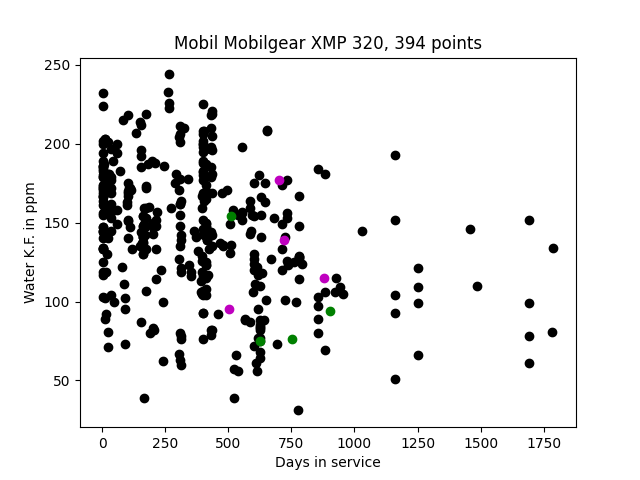
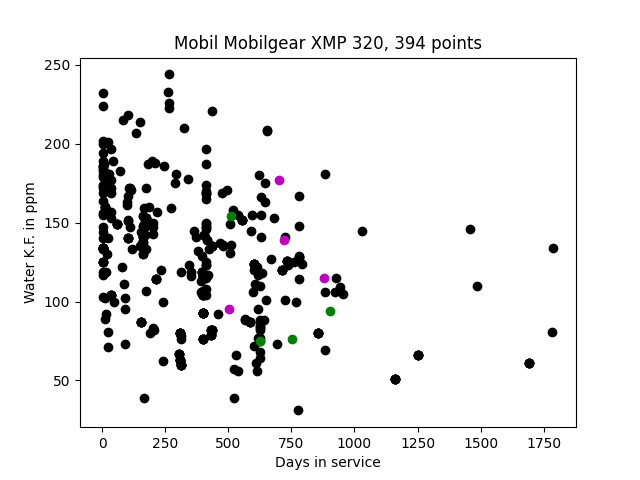
Sep 20, 2022, 5:52 PM

diff --git a/project/dataset.py b/project/dataset.py
@@ -443,20 +443,20 @@ class Dataset:
                                     # add to x1, y1, increase j, if it is the case l but not k 
                                     if not ("Einfülltage" in self.keys):
                                         if (
-                                            len(row["Datum letzter Ölwechsel"]) > 0
-                                            and len(row["Datum Probenentnahme"]) > 0
+                                            len((data[i])["Datum letzter Ölwechsel"]) > 0
+                                            and len((data[i])["Datum Probenentnahme"]) > 0
                                         ):
                                             days_service = self.compute_days_in_service(
                                                 (data[i])["Datum Probenentnahme"],
                                                 (data[i])["Datum letzter Ölwechsel"],
                                             )
-                                            if days_service > 0 and len(row[param]) > 0:
+                                            if days_service > 0 and len((data[i])[param]) > 0:
                                                 x1.append(days_service)
-                                                y1.append(float(row[param]))
+                                                y1.append(float((data[i])[param]))
                                                 j += 1
                                     elif len(row["Einfülltage"]) > 0:
-                                        x1.append(int(row["Einfülltage"]))
-                                        y1.append(float(row[param]))
+                                        x1.append(int((data[i])["Einfülltage"]))
+                                        y1.append(float((data[i])[param]))
                                         j += 1
                                     if j == nop:                                    
                                         l += 1
